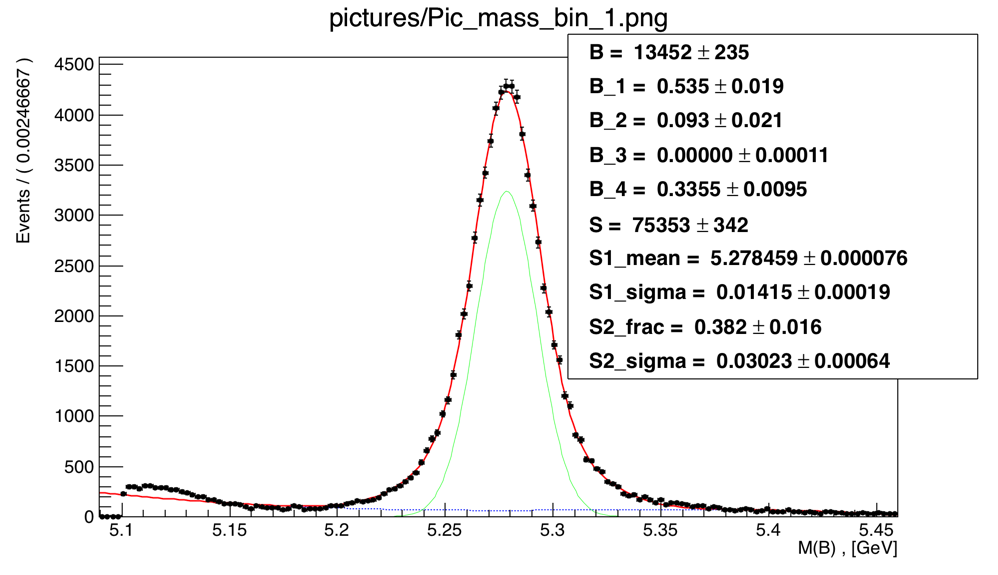
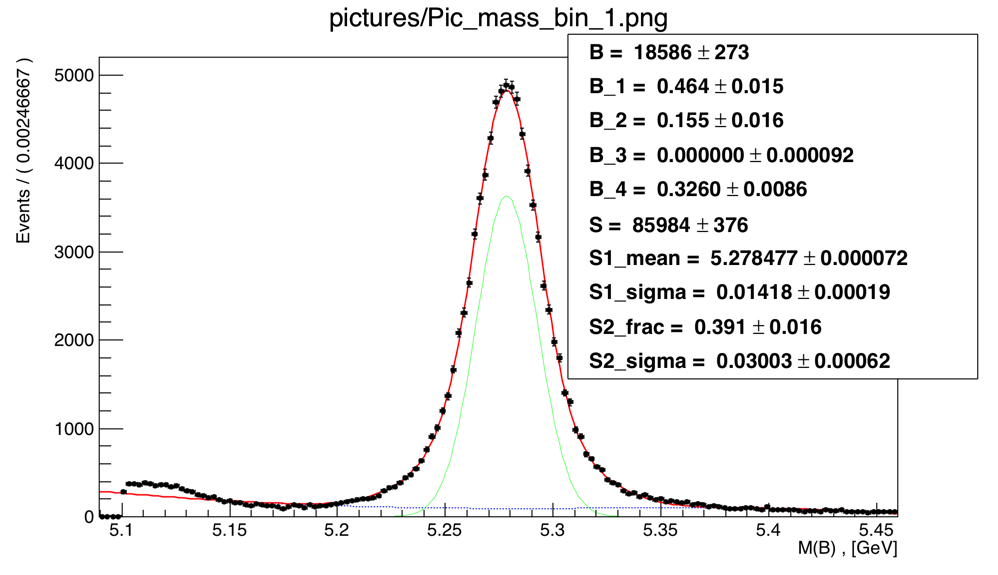
add cuts for cos

diff --git a/cuts_cos.py b/cuts_cos.py
@@ -20,30 +20,26 @@ hBmas2 = ROOT.TH1F('hBmas2', 'B_mass', 150, 5.27963 - 0.19, 5.27963 + 0.18)
 hBmas3 = ROOT.TH1F('hBmas3', 'B_mass', 150, 5.27963 - 0.19, 5.27963 + 0.18)
 hBmas4 = ROOT.TH1F('hBmas4', 'B_mass', 150, 5.27963 - 0.19, 5.27963 + 0.18)
 hBmas5 = ROOT.TH1F('hBmas5', 'B_mass', 150, 5.27963 - 0.19, 5.27963 + 0.18)
-hBmas6 = ROOT.TH1F('hBmas6', 'B_mass', 150, 5.27963 - 0.19, 5.27963 + 0.18)
-hBmas7 = ROOT.TH1F('hBmas7', 'B_mass', 150, 5.27963 - 0.19, 5.27963 + 0.18)
 
 for i in range(1, 8):
     name = 'hB_mass' + str(i)
     # print(name)
     hBmass.append(ROOT.TH1F(name, 'B_mass_Cjp', 150, 5.27963 - 0.19, 5.27963 + 0.18))
 
-cut_cos = 'B_pvcos2_Cjp > 0.9995 '
+cut_sign = 'B_pvdistsignif2_Cjp > 3'
 
-cut_sign = []
+cut_cos = []
 
-cut_sign.append('&& B_pvdistsignif2_Cjp > 25')
-cut_sign.append('&& B_pvdistsignif2_Cjp > 20')
-cut_sign.append('&& B_pvdistsignif2_Cjp > 15')
-cut_sign.append('&& B_pvdistsignif2_Cjp > 10')
-cut_sign.append('&& B_pvdistsignif2_Cjp > 7')
-cut_sign.append('&& B_pvdistsignif2_Cjp > 5')
-cut_sign.append('&& B_pvdistsignif2_Cjp > 3')
+cut_cos.append('&& abs(B_pvcos2_Cjp - 1) < 0.01')
+cut_cos.append('&& abs(B_pvcos2_Cjp - 1) < 0.005')
+cut_cos.append('&& abs(B_pvcos2_Cjp - 1) < 0.001')
+cut_cos.append('&& abs(B_pvcos2_Cjp - 1) < 0.0005')
+cut_cos.append('&& abs(B_pvcos2_Cjp - 1) < 0.0001')
 
 cuts = []
 
-for cut in cut_sign:
-    cuts.append(cut_cos + cut)
+for cut in cut_cos:
+    cuts.append(cut_sign + cut)
 
 # for i in range(0, 7):
 #     print('For ' + str(hBmass[i]) + ' cut is ' + str(cuts[i]))
@@ -53,17 +49,13 @@ ch.Draw('B_mass_Cjp >> hBmas2', cuts[1])
 ch.Draw('B_mass_Cjp >> hBmas3', cuts[2])
 ch.Draw('B_mass_Cjp >> hBmas4', cuts[3])
 ch.Draw('B_mass_Cjp >> hBmas5', cuts[4])
-ch.Draw('B_mass_Cjp >> hBmas6', cuts[5])
-ch.Draw('B_mass_Cjp >> hBmas7', cuts[6])
 
-ff = ROOT.TFile("B_cut_.root", "recreate")
+ff = ROOT.TFile("B_cut_cos.root", "recreate")
 
 hBmas1.Write()
 hBmas2.Write()
 hBmas3.Write()
 hBmas4.Write()
 hBmas5.Write()
-hBmas6.Write()
-hBmas7.Write()
 
 ff.Close()

diff --git a/fit_cos.py b/fit_cos.py
@@ -3,12 +3,12 @@ import ROOT
 from math import sqrt
 from array import array
 
-f = ROOT.TFile('B_cut_.root', 'read')  # file where to read from
+f = ROOT.TFile('B_cut_cos.root', 'read')  # file where to read from
 
 signals, signals_err = array('d'), array('d')
 
-for i in range(1, 8):
-    pname = 'Pic_mass_bin_' + str(i) + '.png'
+for i in range(1, 6):
+    pname = 'Pic_mass_bin_cos_' + str(i) + '.png'
 
     histname = "hBmas" + str(i)
 
@@ -147,23 +147,21 @@ print(signals_err)
 
 sign = array('d')
 
-for i in range(0, 7):
+for i in range(0, 5):
     sign.append(signals[i] / signals_err[i])
 
 cuts = array('d')
-cuts.append(25)
-cuts.append(20)
-cuts.append(15)
-cuts.append(10)
-cuts.append(7)
-cuts.append(5)
-cuts.append(3)
+cuts.append(0.99)
+cuts.append(0.995)
+cuts.append(0.999)
+cuts.append(0.9995)
+cuts.append(0.9999)
 
 print(cuts, sign)
 
-graph = ROOT.TGraph(7, cuts, sign)
+graph = ROOT.TGraph(5, cuts, sign)
 
-ff = ROOT.TFile("graf.root", "recreate")
+ff = ROOT.TFile("graf_cos.root", "recreate")
 
 graph.Write()
 
